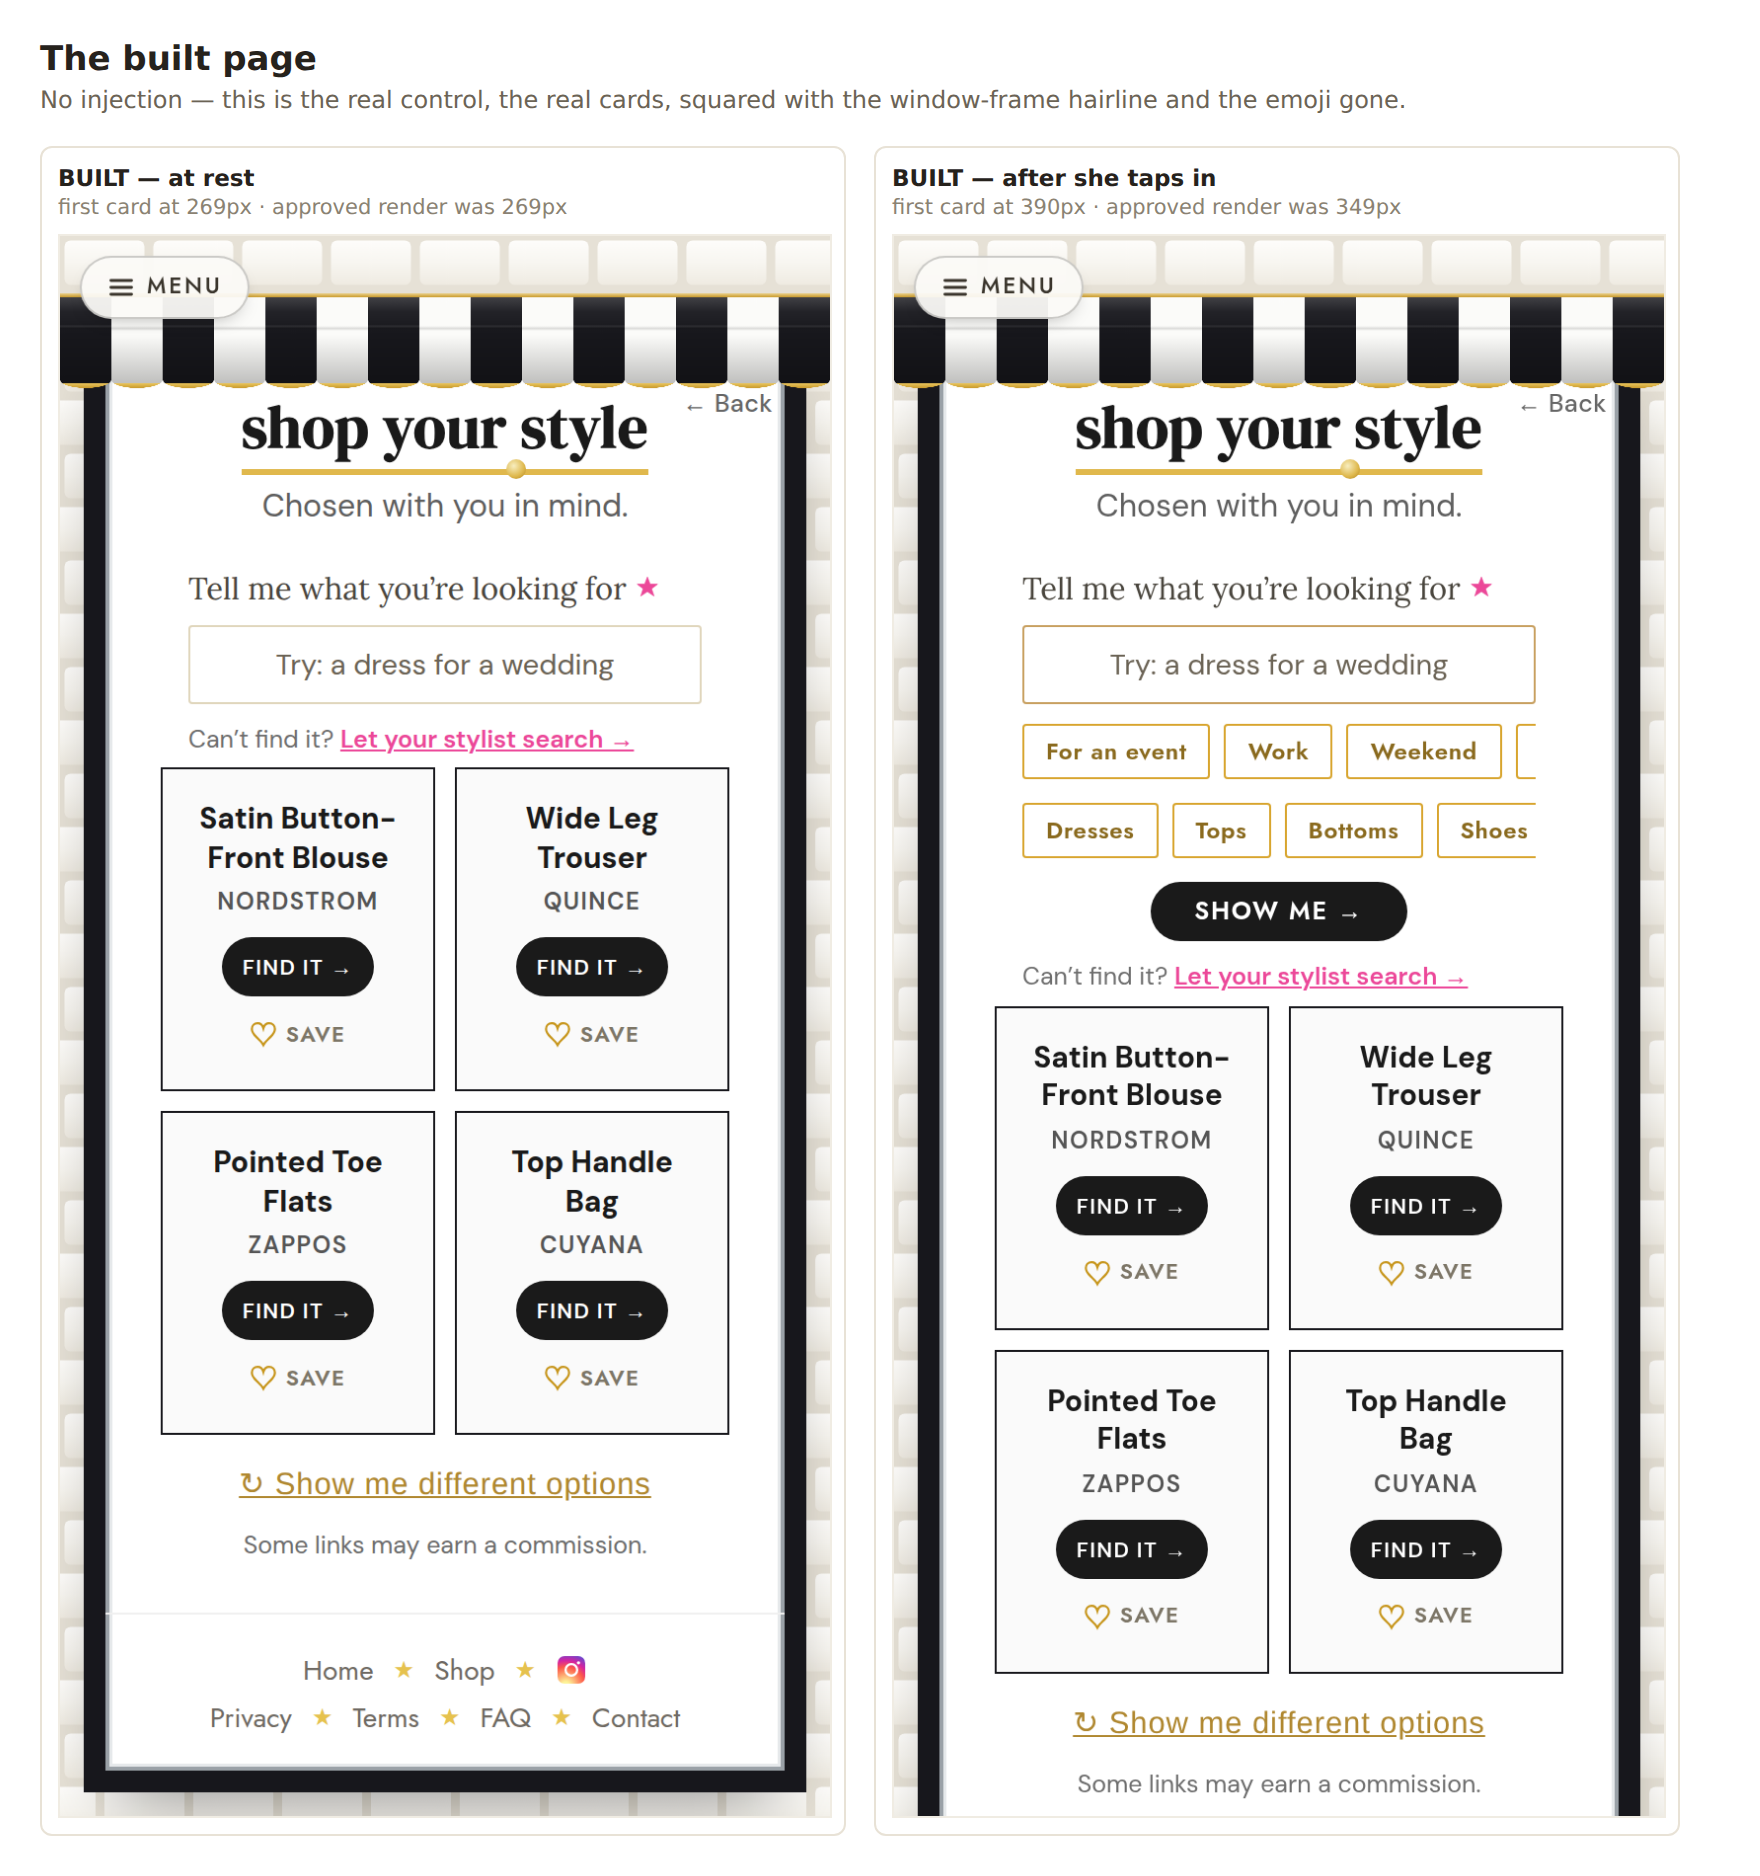
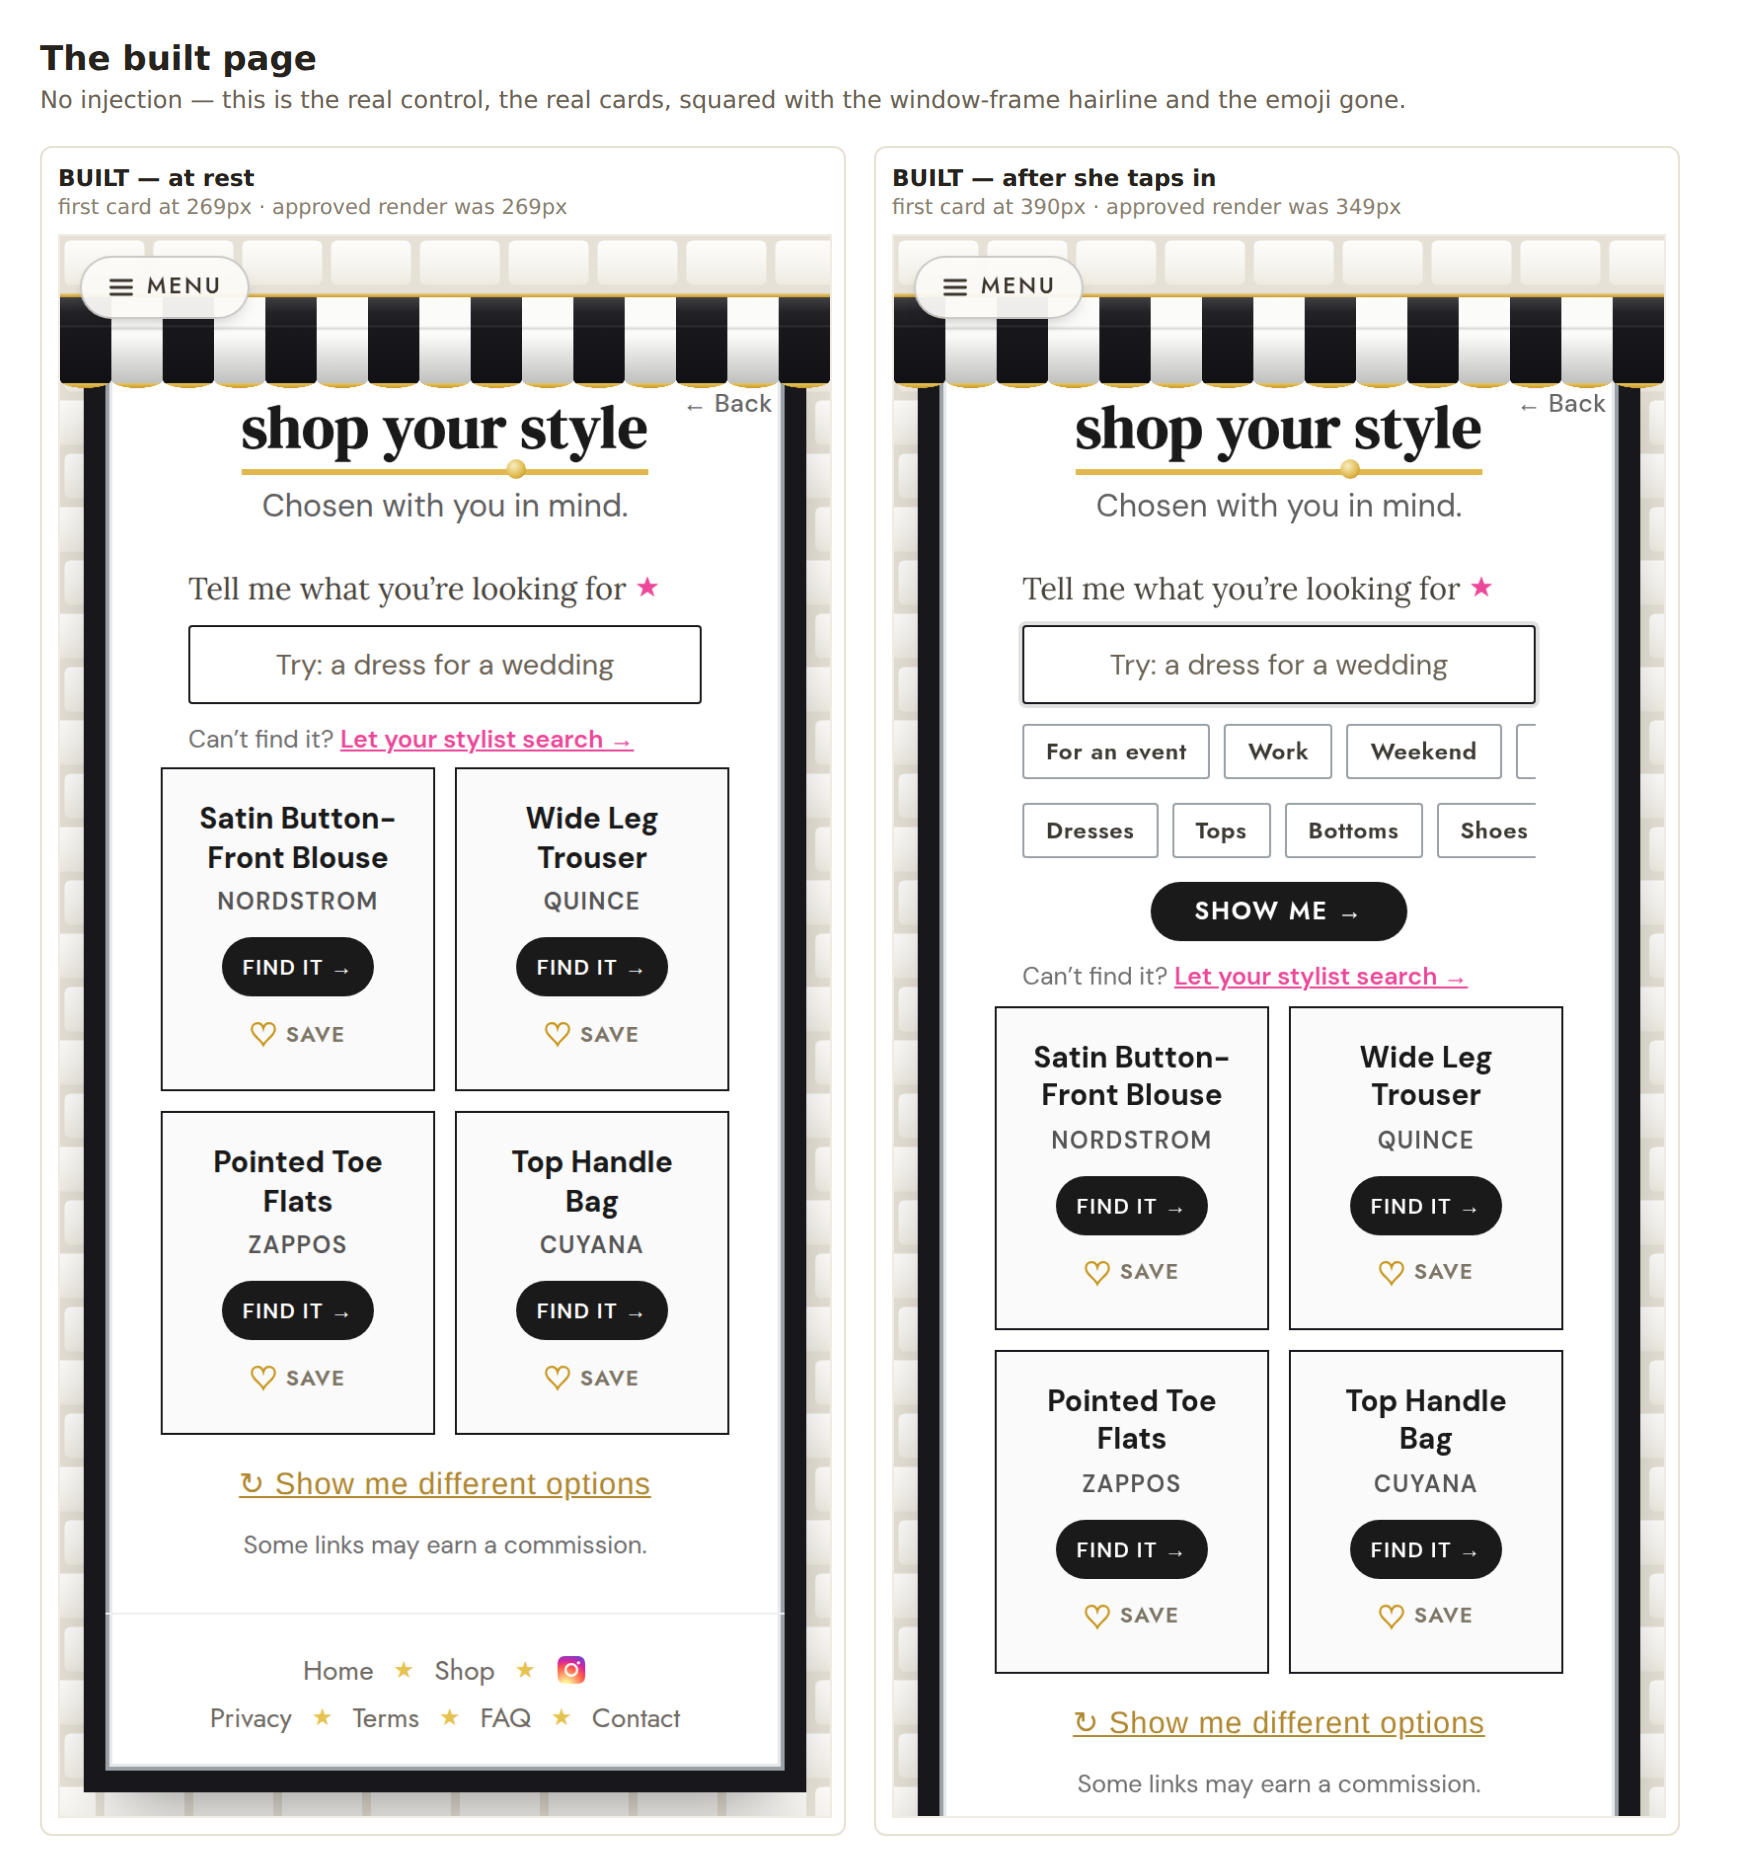
Her call: a black box and display-case silver chips
The ask now has a hierarchy it lacked when everything was gold. The box is
#17171c, the same black as the card hairline and the 11px window frame, so it
leads. The chips drop to the #9AA0A6 display-case silver already used on the
Contact page cards, so they read as helpers for filling the box rather than a
second set of buttons competing with it.

Neither is a new colour on this screen, which was the point of taking the gold
out: the awning, the frame and now the control all speak the same black, and
gold is left doing what it already did, the awning trim, the logo underline and
the Save hearts.

The focus state is a soft ring rather than a colour change. The old gold focus
border would have put the bronzey clash straight back on a black box.

Chip label contrast 5.05:1 to 11.33:1.

Claude-Session: https://claude.ai/code/session_01JXRgDQzRT4sX9Bo88dHkGb

Changed region(s): [[0.5938, 0.3092, 0.875, 0.4638], [0.5625, 0.3401, 0.5938, 0.371]]

diff --git a/index.html b/index.html
@@ -1066,14 +1066,27 @@ html.edit-velvet,html.edit-velvet body{background:#0E7F8C}
 #s-shopstyle #ssAsk{margin:12px auto 4px;max-width:340px;padding:0 14px}
 #s-shopstyle .sa-vox{font:400 15.5px/1.45 'Lora',Georgia,serif;color:#4a463e;margin-bottom:8px;text-wrap:balance}
 #s-shopstyle .sa-star{width:13px;height:13px;vertical-align:-1px;margin-left:4px;display:inline-block}
-#s-shopstyle #ssAskIn{border:1.5px solid #e0d6bc;border-radius:2px;padding:10px 14px;font-size:14.5px;width:100%;text-align:center;background:#fff;color:#1a1a1a;font-family:'DM Sans',sans-serif}
-#s-shopstyle #ssAskIn:focus{outline:none;border-color:#C8A060}
+/* Her call: the box is BLACK and the chips are silver, which gives the control a
+   hierarchy it did not have when both were gold — the box is the thing to use, the
+   chips are helpers. #17171c again, so it matches the card hairline and the frame.
+   ⚠ The focus state is a soft ring, NOT a colour change: a gold focus border on a
+   black box would reintroduce exactly the bronzey clash she took out. */
+#s-shopstyle #ssAskIn{border:1.5px solid #17171c;border-radius:2px;padding:10px 14px;font-size:14.5px;width:100%;text-align:center;background:#fff;color:#1a1a1a;font-family:'DM Sans',sans-serif}
+#s-shopstyle #ssAskIn:focus{outline:none;box-shadow:0 0 0 2px rgba(23,23,28,.13)}
 /* #6b6355 is the readable placeholder ink, not a lighter grey: the 2026-08-11
    pass found the add-your-own placeholder at 2.73:1 and it was the one thing
    telling her the field existed. An invitation, not a hint. */
 #s-shopstyle #ssAskIn::placeholder{color:#6b6355}
 #s-shopstyle .sa-row{display:flex;gap:7px;overflow-x:auto;padding:2px 0;flex-wrap:nowrap;margin-top:8px;-webkit-overflow-scrolling:touch}
-#s-shopstyle .sa-chip{font:600 12px/1 'Jost',sans-serif;letter-spacing:.03em;color:#8a6a1e;padding:7px 11px;border:1px solid #D8A52E;border-radius:2px;background:#fff;white-space:nowrap;cursor:pointer;flex:0 0 auto;-webkit-tap-highlight-color:transparent}
+/* Her pick from five rendered options, 2026-08-21: the gold chips read "bronzey"
+   and fought the screen — her own store-window reasoning one element further on.
+   #9AA0A6 is the display-case silver already used on the Contact page cards, so it
+   is not a new colour either, and it sits deliberately QUIETER than the black box
+   above: the box is the thing to use, the chips only help her fill it. Label ink
+   11.33:1, against gold's 5.05:1.
+   ⚠ Outline, NOT filled: solid black chips compete with the SHOW ME button directly
+   beneath them and the Find it pills below that. Rendered and rejected. */
+#s-shopstyle .sa-chip{font:600 12px/1 'Jost',sans-serif;letter-spacing:.03em;color:#3d3a34;padding:7px 11px;border:1px solid #9AA0A6;border-radius:2px;background:#fff;white-space:nowrap;cursor:pointer;flex:0 0 auto;-webkit-tap-highlight-color:transparent}
 #s-shopstyle .sa-go{display:block;margin:10px auto 0;background:#1a1a1a;color:#fff;border:none;border-radius:20px;padding:9px 22px;font:600 12.5px/1 'Jost',sans-serif;letter-spacing:.07em;cursor:pointer}
 #s-shopstyle .sa-esc{font-size:12.5px;color:#6e6e6e;margin-top:9px;line-height:1.55}
 #s-shopstyle .sa-esc span{color:#EC4899;font-weight:600;text-decoration:underline;cursor:pointer}

diff --git a/scratchpad/_blsheet.html b/scratchpad/_blsheet.html
@@ -1,0 +1,9 @@
+<!doctype html><meta charset=utf-8><style>
+body{margin:0;padding:20px;background:#fff;font:400 12px system-ui;color:#26221c}
+h1{font:600 17px system-ui;margin:0 0 3px}p{margin:0 0 16px;color:#6b6355;font-size:12px}
+.g{display:grid;grid-template-columns:repeat(2,1fr);gap:14px;max-width:820px}
+.c{border:1px solid #e8e2d6;padding:8px;border-radius:6px}
+.h{font:600 11.5px system-ui;margin-bottom:2px}.m{font-size:10.5px;color:#8a8272;margin-bottom:7px}
+img{width:100%;display:block;border:1px solid #f0ece3}</style>
+<h1>The built page</h1><p>No injection — this is the real control, the real cards, squared with the window-frame hairline and the emoji gone.</p>
+<div class=g><div class=c><div class=h>BUILT — at rest</div><div class=m>first card at 269px &middot; approved render was 269px</div><img src="_bl-rest.png"></div><div class=c><div class=h>BUILT — after she taps in</div><div class=m>first card at 390px &middot; approved render was 349px</div><img src="_bl-open.png"></div></div>
